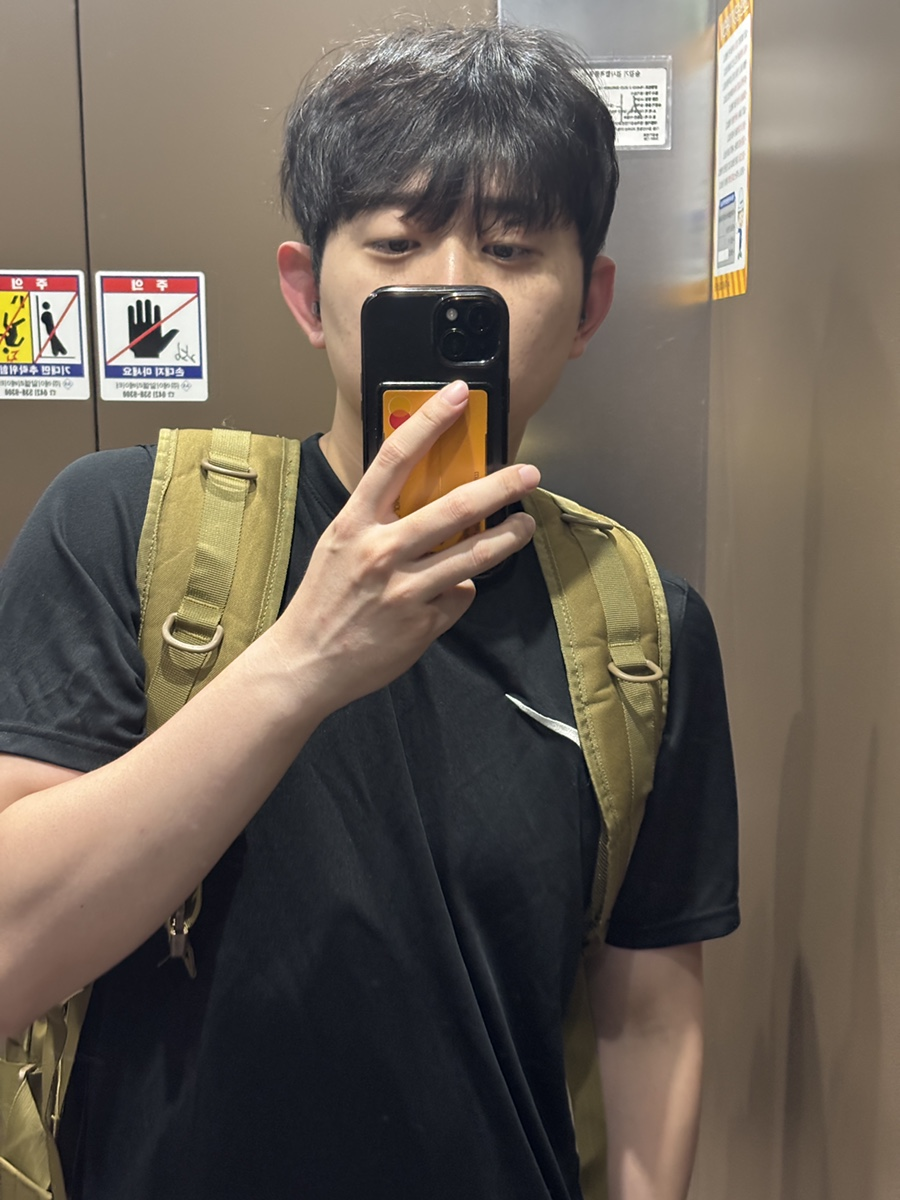
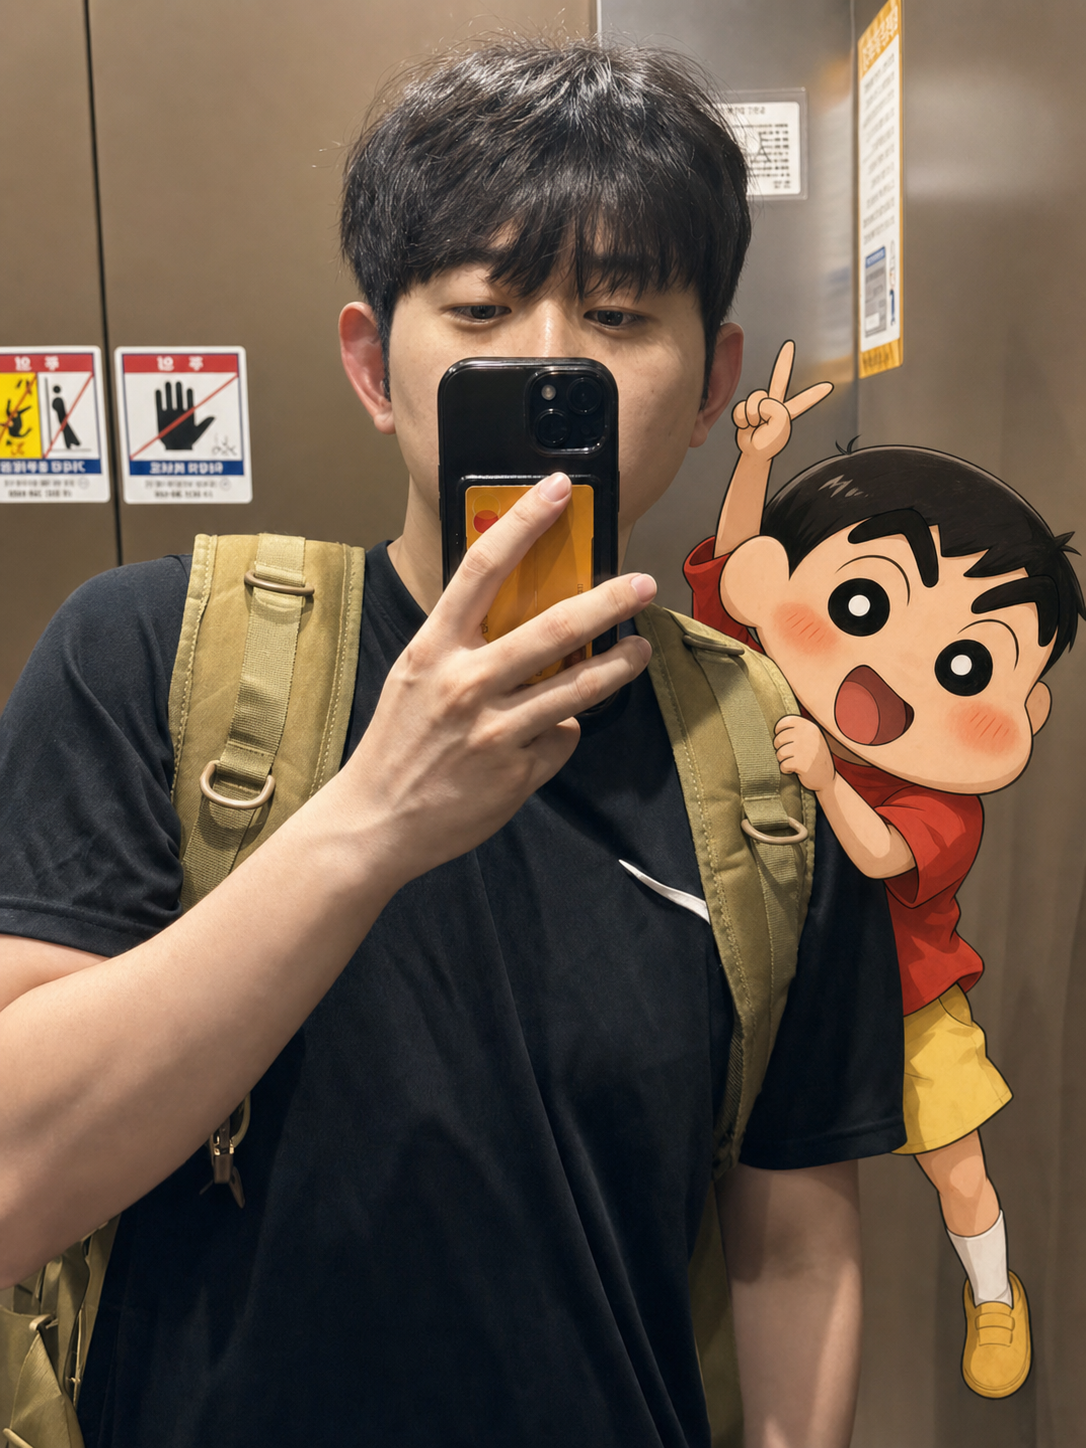
Feat: 짱구 이스터에그 임시 추가

diff --git a/src/config/version.ts b/src/config/version.ts
@@ -1,5 +1,5 @@
 export const APP_VERSION = {
-    version: '0.0.1',
+    version: '0.1.1',
 };
 
 export default APP_VERSION;
